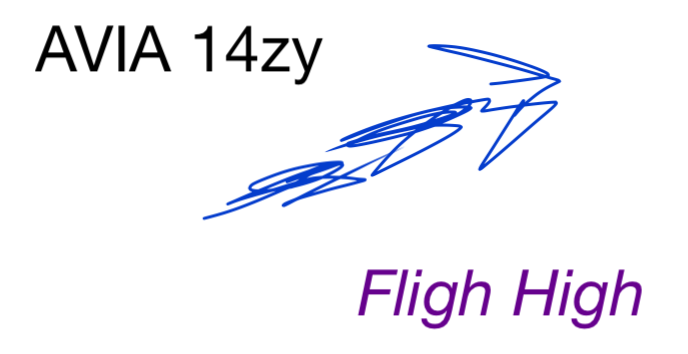
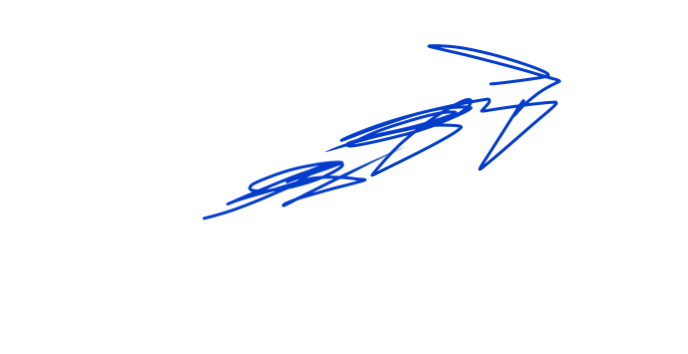
projects update

Changed region(s): [[0.5189, 0.7458, 0.9462, 0.9322], [0.0305, 0.0621, 0.2442, 0.2175], [0.2747, 0.0621, 0.4884, 0.2486]]

diff --git a/index.html b/index.html
@@ -47,6 +47,7 @@
       <br><br><br><br>
 
       <h2>Projects</h2>
+      
       <div class="row">
 
         <div class="col-md-4">
@@ -78,7 +79,6 @@
           </a>
         </div>
 
-
         <div class="col-md-4">
           <a style="height:460px; text-decoration: none" target="_blank" href="https://artchallenge.ru/" class="thumbnail">
             <br><br>
@@ -97,12 +97,12 @@
         <div class="col-md-4">
           <a style="height:460px; text-decoration: none" target="_blank" href="https://avia.14zy.ru/" class="thumbnail">
             <br><br>
-            <img class="" src="img/avia.png" style="height:200px;">
+            <img class="img-circle" src="img/avia.png" style="height:200px;">
             <br>
             <div class="caption">
               <h3>Avia 14zy</h3>
                 <!-- <small class="text-success">Android</small> -->
-              <p>Поиск самых дешевых авиабилетов. Летайте по кайфу</p>
+              <p>Поиск самых выгодных билетов для перелетов с кайфом</p>
               <br><br>
               <b class="text-primary">avia.14zy.ru</b>
             </div>
@@ -123,58 +123,77 @@
           </a>
         </div>
 
-
-
-
-
-
-<!--
         <div class="col-md-4">
-          <a style="height:460px; text-decoration: none" target="_blank" href="http://artchallenge.ru/" class="thumbnail">
+          <a style="height:460px; text-decoration: none" target="_blank" href="https://vk.com/socialcoins" class="thumbnail">
             <br><br>
-            <img class="img-circle" src="img/artchallenge2.png" style="height:200px;">
+            <img class="img-circle" src="img/coin fb.png" style="height:200px;">
             <br>
             <div class="caption">
-              <h3>Сайт Art Challenge</h3>
-              <p>Сайт с коллекцией картин художников и популярной игрой на знание истории изобразительного искусства</p>
-              <br>
-              <b class="text-primary">artchallenge.ru</b>
+              <h3>Social Coins<br><small class="text-danger">closed</small></h3>
+              <p>
+                <b>2014-2015</b>
+              </p>
+              <p>Краудфандинговая платформа для спонсирования проектов с помощью публикаций</p>
+              <b class="text-primary">Social-Coins.com</b>
             </div>
           </a>
-        </div> -->
-
-
+        </div>
 
       </div>
 
-
-
-
       <!-- Calendly badge widget begin -->
-<link href="https://assets.calendly.com/assets/external/widget.css" rel="stylesheet">
-<script src="https://assets.calendly.com/assets/external/widget.js" type="text/javascript" async></script>
-<script type="text/javascript">window.onload = function() { Calendly.initBadgeWidget({ url: 'https://calendly.com/14zy?hide_landing_page_details=1&hide_gdpr_banner=1', text: '🚀 Start Consultation', color: '#0069ff', textColor: '#ffffff', branding: true }); }</script>
-<!-- Calendly badge widget end -->
-      
-      
-      <div class="row">
+      <link href="https://assets.calendly.com/assets/external/widget.css" rel="stylesheet">
+      <script src="https://assets.calendly.com/assets/external/widget.js" type="text/javascript" async></script>
+      <script type="text/javascript">window.onload = function() { Calendly.initBadgeWidget({ url: 'https://calendly.com/14zy?hide_landing_page_details=1&hide_gdpr_banner=1', text: '🚀 Request a Consultation', color: '#0069ff', textColor: '#ffffff', branding: true }); }</script>
+      <!-- Calendly badge widget end -->
 
+      <br>
+      <h2>Work</h2>
+      <div class="row">
         <div class="col-md-4">
           <a style="height:460px; text-decoration: none" target="_blank"  href="https://riiva.ai" class="thumbnail">
             <br><br>
             <img class="" src="img/riiva.jpeg" style="height:200px;">
             <br>
             <div class="caption">
-              <h3>Riiva AI Restaurant</h3>
+              <h3>Riiva AI <br><small class="text-muted">Product Manager</small></h3>
               <p>Виртуальныый ассистент для ресторанов</p>
               <br><br>
-              <b class="text-primary">Riiva.ai</b>
+              <b class="text-primary">Riiva.AI</b>
             </div>
           </a>
         </div>
 
         <div class="col-md-4">
-          <a style="height:460px; text-decoration: none" target="_blank"  href="https://eywakitchen.ru" class="thumbnail">
+          <a style="height:460px; text-decoration: none" target="_blank" href="https://Mastera.academy" class="thumbnail">
+            <br><br>
+            <img class="img-circle" src="img/mastera.png" style="height:200px;">
+            <br>
+            <div class="caption">
+              <h3>Мастера <br><small class="text-muted">Digital Strategist</small></h3>
+              <p>Образовательная платформа для обучения креативным профессиям в РФ</p>
+              <br>
+              <b class="text-primary">Mastera.Academy</b>
+            </div>
+          </a>
+        </div>
+
+        <div class="col-md-4">
+          <a style="height:460px; text-decoration: none" target="_blank" href="https://south-itpark.ru" class="thumbnail">
+            <br><br>
+            <img class="img-circle" src="img/itpark.png" style="height;">
+            <br>
+            <div class="caption">
+              <h3>Южный ИТ-Парк <br><small class="text-muted">Marketing Specialist</small></h3>
+              <p>Главный акселератор стартапов Ростовской области</p>
+              <br><br><br><br>
+              <b class="text-primary">South-ITpark.ru</b>
+            </div>
+          </a>
+        </div>
+
+        <div class="col-md-4">
+          <a style="height:480px; text-decoration: none" target="_blank"  href="https://eywakitchen.ru" class="thumbnail">
             <br><br>
             <img class="" src="img/eywa2.jpeg" style="height:200px;">
             <br>
@@ -188,7 +207,7 @@
         </div>
 
         <div class="col-md-4">
-          <a style="height:480px; text-decoration: none" target="_blank" href="http://mebtender.ru/" class="thumbnail">
+          <a style="height:480px; text-decoration: none" target="_blank" href="https://mebtender.ru/" class="thumbnail">
             <br><br>
             <img class="img-circle" src="img/birja-kuhon.jpg" style="height:200px;">
             <br>
@@ -203,96 +222,16 @@
           </a>
         </div>
 
-        <div class="col-md-4">
-          <a style="height:530px; text-decoration: none" target="_blank" href="https://vk.com/socialcoins" class="thumbnail">
-            <br><br>
-            <img class="img-circle" src="img/coin fb.png" style="height:200px;">
-            <br>
-            <div class="caption">
-              <h3>Social Coins<br><small class="text-danger">closed</small></h3>
-              <p>
-                <b>2014-2015</b>
-              </p>
-              <p>Краудфандинговая платформа, позволяющая спонсировать благотворительные проекты не тратя свои деньги, а с помощью рекламных публикаций в социальных сетях .</p>
-              <!-- <p>
-                <b>Причины закрытия:</b>
-                Высокая сложность реализации проекта, недовольство от рекламы, которую публикуют твои друзья, даже для добрых целей.
-              </p> -->
-              <b class="text-primary">Social-Coins.com</b>
-            </div>
-          </a>
-        </div>
-
-        <div class="col-md-4">
-          <a style="height:530px; text-decoration: none" target="_blank" href="http://14zy.ru/givemesugar" class="thumbnail">
-            <br><br>
-            <img class="img-circle" src="img/giveme2.jpg" style="max-height:200px;">
-            <br>
-            <div class="caption">
-              <h3>Give Me Sugar<br><small class="text-danger">closed</small></h3>
-              <p>Анализатор социальной сети ВКонтакте, позволяет проанализировать вовлеченность подписчиков сообщества или друзей пользователя в его публикации, тем самым измеряя качество аккаунта и его реальный охват перед покупкуой рекламный постов</p>
-              <b class="text-primary">14zy.ru/givemesugar/</b>
-            </div>
-          </a>
-        </div>
-
-
-
-        <div class="col-md-4">
-          <a style="height:550px; text-decoration: none" target="_blank" href="http://gamechallenge.ru/" class="thumbnail">
-            <br><br>
-            <img class="img-circle" src="img/gamechallenge.png" style="max-height:200px;">
-            <br>
-            <div class="caption">
-              <h3>Game Challenge<br><small class="text-danger">closed</small></h3>
-              <p>
-                <b>2014-2016</b>
-              </p>
-              <p>Викторина на знание видеоигр.</p>
-              <!-- <p>
-                <b>Причины закрытия:</b>
-                Не набрал достаточной популярности, отсутствие у пользователей желания делиться подобными достижениями.</p> -->
-                <br>
-                <b class="text-primary">GameChallenge.ru</b>
-            </div>
-          </a>
-        </div>
-
-        <div class="col-md-4">
-          <a style="height:550px; text-decoration: none" target="_blank" href="https://vk.com/forgiveme.today" class="thumbnail">
-            <br><br>
-            <img class="img-circle" src="img/forgivemetoday3.png" style="width:200px; height:200px;">
-            <br>
-            <div class="caption">
-              <h3>Forgive Me Today<br><small class="text-danger">archive</small></h3>
-              <p>
-                <b>2014-2015</b>
-              </p>
-              <p>Анонимный сервис для общественного покаяния. Человек просит простить его за что-то и другие люди прощают его или нет.</p>
-              <!-- <p>
-                <b>Причины закрытия:</b>
-                Не набрал достаточной популярности, необходимость социальной ответственности.</p> -->
-                <br>
-                <b class="text-primary">Forgiveme.today</b>
-            </div>
-          </a>
-        </div>
-
       </div>
 
-
-
       <br><br>
-      <h2>Приколы</h2>
       <hr>
+      <h2>Misc</h2>
+      
       <div class="row">
 
-
-
-        
-
         <div class="col-md-4">
-          <a style="height:460px; text-decoration: none" target="_blank" href="http://14zy.ru/varenik-online/" class="thumbnail">
+          <a style="height:460px; text-decoration: none" target="_blank" href="https://14zy.ru/varenik-online/" class="thumbnail">
             <br><br>
             <img class="img-circle" src="img/varenik.png" style="width: 200px; height:200px;">
             <br>
@@ -304,7 +243,7 @@
         </div>
 
         <div class="col-md-4">
-          <a style="height:460px; text-decoration: none" target="_blank" href="http://14zy.ru/test-ooo/" class="thumbnail">
+          <a style="height:460px; text-decoration: none" target="_blank" href="https://14zy.ru/test-ooo/" class="thumbnail">
             <br><br>
             <img class="img" src="img/proverka2.png" style="height:200px;">
             <br>
@@ -317,7 +256,7 @@
         </div>
 
           <div class="col-md-4">
-            <a style="height:460px; text-decoration: none" target="_blank" href="http://14zy.ru/robot-сouturier/" class="thumbnail">
+            <a style="height:460px; text-decoration: none" target="_blank" href="https://14zy.ru/robot-сouturier/" class="thumbnail">
               <br><br>
               <img class="img-circle" src="img/robot-cuturie.png" style="width: 200px; height:200px;">
               <br>
@@ -328,11 +267,8 @@
             </a>
           </div>
 
-
-
-
         <div class="col-md-4">
-          <a style="height:460px; text-decoration: none" target="_blank" href="http://14zy.ru/lastinthedistrict" class="thumbnail">
+          <a style="height:530px; text-decoration: none" target="_blank" href="https://14zy.ru/lastinthedistrict" class="thumbnail">
             <br><br>
             <img class="img-circle" src="img/lastinthedistrict.png" style="width: 200px; height:200px;">
             <br>
@@ -340,56 +276,97 @@
               <h3>Ты с какого района?</h3>
               <p>Визуальная новелла про молодого человека, который оказался в чужом районе.</p>
             </div>
+            <br>
           </a>
         </div>
 
-
-
-        <!-- <div class="col-md-4">
-          <a style="height:530px; text-decoration: none" target="_blank" href="http://14zy.ru/privet-sosed/v1/map.html" class="thumbnail">
+         <div class="col-md-4">
+          <a style="height:530px; text-decoration: none" target="_blank" href="https://14zy.ru/privet-sosed/v1/map.html" class="thumbnail">
             <br><br>
             <img class="img-circle" src="img/privet-sosed2.jpg" style="max-height:200px;">
             <br>
             <div class="caption">
               <h3>Привет, Соседи!</h3>
-              <p>Социальная сеть для владельцев новостроек. Можно познакомиться с людьми, которые уже купили квартиру в строящемся доме.</p>
+              <p>Фантазии на тему социальной сети для людей котороые купили жильё, которое еще строится, но познакомится с соседями они могут уже сейчас.</p>
             </div>
           </a>
-        </div> -->
+        </div>
 
-        <!-- <div class="col-md-4">
-          <a style="height:420px; text-decoration: none" target="_blank" href="http://rostov-english.ru/" class="thumbnail">
+        <div class="col-md-4">
+          <a style="height:530px; text-decoration: none" target="_blank" href="https://14zy.ru/givemesugar" class="thumbnail">
             <br><br>
-            <img class="img-circle" src="img/rostov.jpg" style="width: 200px; height:200px;">
+            <img class="img-circle" src="img/giveme2.jpg" style="max-height:200px;">
             <br>
             <div class="caption">
-              <h3>Rostov English <br><small class="text-success">продано</small></h3>
-              <p>Сайт про обучение английкому языку в Ростове-на-Дону</p>
+              <h3>Give Me Sugar<br><small class="text-danger">closed</small></h3>
+              <p>Анализатор социальной сети ВКонтакте, позволяет проанализировать вовлеченность подписчиков сообщества или друзей пользователя в его публикации, тем самым измеряя качество аккаунта и его реальный охват перед покупкуой рекламный постов</p>
+              <b class="text-primary">14zy.ru/givemesugar/</b>
+            </div>
+          </a>
+        </div>
+
+        <!-- <div class="col-md-4">
+          <a style="height:550px; text-decoration: none" target="_blank" href="http://gamechallenge.ru/" class="thumbnail">
+            <br><br>
+            <img class="img-circle" src="img/gamechallenge.png" style="max-height:200px;">
+            <br>
+            <div class="caption">
+              <h3>Game Challenge<br><small class="text-danger">closed</small></h3>
+              <p>
+                <b>2014-2016</b>
+              </p>
+              <p>Викторина на знание видеоигр.</p>
+              
+                <br>
+                <b class="text-primary">GameChallenge.ru</b>
             </div>
           </a>
         </div> -->
 
         <div class="col-md-4">
-          <a style="height:460px; text-decoration: none" target="_blank" href="http://14zy.ru/old/resume/" class="thumbnail">
+          <a style="height:460px; text-decoration: none" target="_blank" href="https://vk.com/forgiveme.today" class="thumbnail">
+            <br><br>
+            <img class="img-circle" src="img/forgivemetoday3.png" style="width:200px; height:200px;">
+            <br>
+            <div class="caption">
+              <h3>Forgive Me Today</h3>
+              <p>
+                <b>2014-2015</b>
+              </p>
+              <p>Анонимный сервис для общественного покаяния. Человек просит простить его за что-то и другие люди прощают его или нет.</p>
+                
+            </div>
+          </a>
+        </div>
+
+        <div class="col-md-4">
+          <a style="height:460px; text-decoration: none" target="_blank" href="https://14zy.ru/old/resume/" class="thumbnail">
             <br><br>
             <img class="img-circle" src="img/resume.jpg" style="width: 200px; height:200px;">
             <br>
             <div class="caption">
-              <h3>Креативное резюме</h3>
-              <p>Резюме на должность Digital-стратега в виде сайта-истории, 2012 год.</p>
+              <h3>Креативное резюме 2012</h3>
+              <p>Резюме на должность Digital-стратега в виде сайта-истории.</p>
             </div>
           </a>
         </div>
-        
 
+        <div class="col-md-4">
+          <a style="height:460px; text-decoration: none" target="_blank" href="https://14zy.ru/resume.pdf" class="thumbnail">
+            
+            <img class="" src="img/resume2.png" style="width: ; height:;">
+            
+            <div class="caption">
+              <h3>Resume in 2023</h3>
+              <p>CV in English</p>
+            </div>
+          </a>
+        </div>
+      
       </div>
 
-
-
       <div class="row">
-
           <div class="page-header" style="padding-left: 20px;">
-
             <a target="_blank" href="http://x.com/14zy">Twitter (X)</a>
             |
             <a target="_blank" href="https://instagram.com/14zy">Instagram</a>
